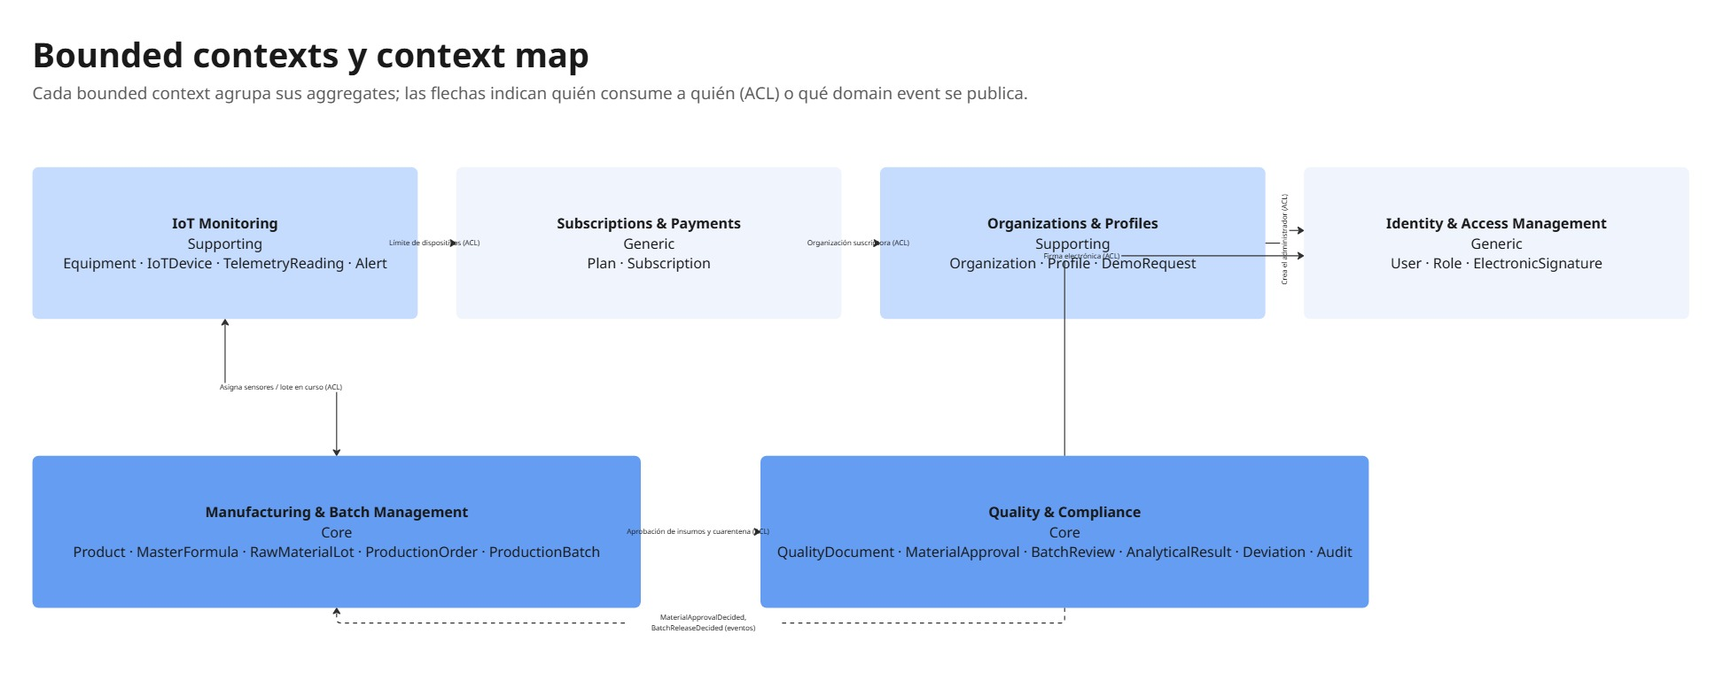
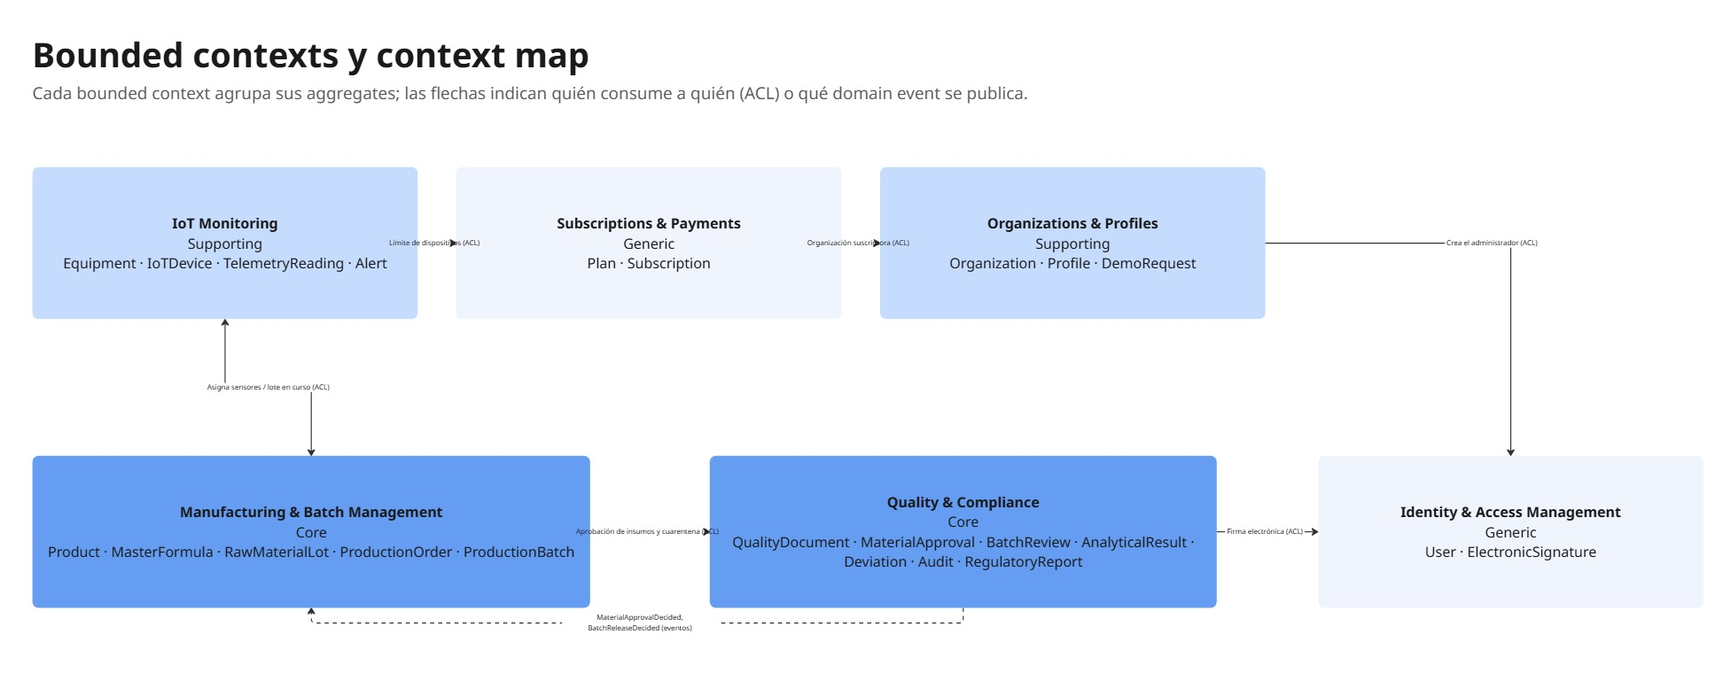
docs(chapter4): refine c4 diagrams, context map and design descriptions

diff --git a/docs/chapter4.md b/docs/chapter4.md
@@ -1,6 +1,6 @@
 # Capítulo IV: Product Design
 
-En este capítulo se detallan las decisiones de diseño del producto para su plataforma DoofPlus, junto con la Landing Page. Se establecen guías de estilo visuales, arquitectura de la información (AI) y criterios que aseguran que la experiencia de usuario (UX) sea intuitiva y profesional, donde alineamos a las exigencias en las máquinas de la industria farmacéutica y entidades regulatorias para la calidad de los fármacos como la DIGEMID.
+En este capítulo se presenta el diseño de DoofPlus a partir de las User Stories y el Impact Map del capítulo III: las guías de estilo, la arquitectura de información, el diseño de la Landing Page y de la Web Application, la arquitectura de software orientada al dominio, el diseño orientado a objetos y el diseño de la base de datos. Las decisiones responden a las exigencias de los laboratorios farmacéuticos y de la DIGEMID sobre la calidad, la trazabilidad y la integridad de los registros.
 
 ## 4.1. Style Guidelines
 
@@ -11,7 +11,7 @@ En esta sección se establecen las bases visuales y de comunicación para DoofPl
 Para asegurar una interfaz coherente y alineada con los estándares que exige la industria farmacéutica, el sistema de diseño de DoofPlus toma como base **Material Design**, el lenguaje de diseño indicado para el proyecto. En la Web Application se implementa con **Angular CLI** usando un tema basado en **Material Design**, y en la Landing Page con ***HTML5*** y ***CSS3*** respetando los mismos tokens de color, tipografía y espaciado.
 
 #### Branding:
-El logotico escogido para DoofPlus comunica de forma directa y sintética la propuesta de valor del sistema: la integración de la automatización industrial con la rigurosidad del control farmacéutico. Para la sección de Branding, el análisis de los componentes de dicho logotipo se desglosa de la siguiente manera:
+El logotipo escogido para DoofPlus comunica de forma directa y sintética la propuesta de valor del sistema: la integración de la automatización industrial con la rigurosidad del control farmacéutico. Para la sección de Branding, el análisis de los componentes de dicho logotipo se desglosa de la siguiente manera:
 
 <p align="center">
   <img src="../assets/img/chapter4/doofplus-logo.png" alt="DoofPlus Logo" width="350px" />
@@ -50,7 +50,7 @@ La paleta de colores de DoofPlus está diseñada para evocar pulcritud clínica,
 | --error-color | #F44336 | Funcional | Errores, rechazos y desviaciones críticas |
 | --warning-color | #FFC107 | Funcional | Advertencias y alertas |
 
-  ![paleta-colores](../assets/img/chapter4/color-palette.png)
+![paleta-colores](../assets/img/chapter4/color-palette.png)
 
 #### Spacing
 
@@ -95,6 +95,7 @@ Las directrices de estilo web de DoofPlus explican e ilustran las decisiones sob
 - Organización: el proyecto de la Web Application en Angular se organiza por bounded context dentro de `src/app`: `iam`, `organizations`, `subscriptions`, `manufacturing`, `iot-monitoring` y `quality`, cada uno con las capas `domain`, `application`, `infrastructure` y `presentation`. Los elementos comunes (layout, toolbar, footer, selector de idioma y cliente REST base) se ubican en `src/app/shared`; los estilos globales y los design tokens de color, tipografía y espaciado, en `src/styles.css`; las imágenes e íconos, en `public/images`, y las traducciones, en `public/i18n` (`en.json`, idioma por defecto, y `es.json`). La Landing Page aplica los mismos tokens en su hoja de estilos.
 - Versionado: Se utiliza Git gestionado desde GitHub como sistema de control de versiones central. El equipo aplica GitFlow y Conventional Commits para gestionar los cambios en el código, lo que ayuda a garantizar que el entorno de desarrollo mantenga una integración continua y una versión estable del producto en todo momento. Además, se aplica Semantic Versioning para darle un orden a las versiones.
 
+
 ## 4.2. Information Architecture
 
 La arquitectura de la información de DoofPlus establece las decisiones que dirigen la organización del contenido en las experiencias web, lo que está orientado a que tanto los visitantes del sector comercial como los usuarios operativos, que forman parte de los segmentos objetivos, se adapten con facilidad a la funcionalidad del producto y puedan encontrar lo que necesitan sin esfuerzo.
@@ -127,7 +128,7 @@ Valores para la Landing Page (sitio estático indexable):
 | --- | --- | --- | --- | --- |
 | Landing Page (index.html) | DoofPlus \| Pharmaceutical Quality & Batch Traceability Platform | SaaS platform that centralizes quality documentation, batch traceability, deviations and IoT data for pharmaceutical laboratories (GMP/DIGEMID). | pharmaceutical quality management, batch traceability, GMP, DIGEMID, CAPA, audit trail, IoT | IngesCompany |
 
-Valores para las vistas principales de la Web Application. Al ser una SPA, el título y la descripción se actualizan en cada cambio de ruta (meta de Vue Router); keywords y author se definen una vez en index.html con los mismos valores de la Landing Page:
+Valores para las vistas principales de la Web Application. Al ser una SPA, el título se actualiza en cada cambio de ruta con la propiedad `title` de las rutas de Angular Router y la descripción con el servicio `Meta` de Angular; keywords y author se definen una vez en `index.html` con los mismos valores de la Landing Page:
 
 | **Vista de la Web Application** | **Title** | **Meta description** |
 | --- | --- | --- |
@@ -143,7 +144,7 @@ Para que los usuarios no se pierdan en el volumen de información generado por l
 
 - **Búsqueda global:** barra en el encabezado para consultar por identificador exacto (número de lote, código de documento o de sensor).
 - **Filtros combinados:** por estado del lote (In Progress, Quarantine, Released, Rejected), rango de fechas de fabricación, severidad de la desviación (Minor, Major, Critical) y tipo de documento.
-- **Presentación de resultados:** tabla de datos (PrimeVue DataTable) paginada y ordenable que resalta la coincidencia y muestra el estado actual de cada registro; si no hay resultados se muestra un mensaje con sugerencias.
+- **Presentación de resultados:** tabla de datos de Angular Material (`mat-table` con `MatPaginator` y `MatSort`) paginada y ordenable que resalta la coincidencia y muestra el estado actual de cada registro; si no hay resultados se muestra un mensaje con sugerencias.
 
 ### 4.2.5. Navigation Systems
 
@@ -155,7 +156,7 @@ Las acciones y técnicas que guían a los usuarios son:
 
 2. ***Web Application:***
 - **Navegación global:** barra lateral (sidebar) con los módulos del entorno (Dashboard, Batches, Documents, Deviations & CAPA, Monitoring, Reports).
-- **avegación contextual:** breadcrumbs para ubicar al usuario dentro de un expediente y regresar a vistas generales.
+- **Navegación contextual:** breadcrumbs para ubicar al usuario dentro de un expediente y regresar a vistas generales.
 
 3. **Navegación por teclado y accesibilidad:** orden de tabulación lógico, foco visible y atributos ARIA en menús y diálogos.
 
@@ -165,11 +166,11 @@ La propuesta de UI de la Landing Page traduce las decisiones anteriores: la jera
 
 ### 4.3.1. Landing Page Wireframe
 
-El wireframe de nuestra página de inicio sirve como un mapa visual que define la estructura y el flujo de la información, alineado con los principios de rigurosidad y claridad que exige el sector farmacéutico. Este esquema asegura una disposición lógica de los componentes, facilitando la navegación y destacando la propuesta de valor de **DoofPlus.** Las secciones del wireframe están diseñadas para contar una historia completa y persuasiva:
+Se presentan los wireframes de la Landing Page para Desktop Web Browser; en Mobile Web Browser las mismas secciones se apilan en una sola columna y la navegación se agrupa en un menú hamburguesa, según el Web Style Guide de la sección 4.1.2. El wireframe sirve como un mapa visual que define la estructura y el flujo de la información, alineado con los principios de rigurosidad y claridad que exige el sector farmacéutico. Este esquema asegura una disposición lógica de los componentes, facilitando la navegación y destacando la propuesta de valor de **DoofPlus.** Las secciones del wireframe están diseñadas para contar una historia completa y persuasiva:
 
 **Nav y Hero:**
 
-Esta sección inicial incluye el logotipo de DoofPlus junto con una presentación breve que introduce al visitante en la propuesta de valor de la plataforma: 'The Future of Pharmaceutical Quality Management' (El futuro de la gestión de calidad farmacéutica). La barra de navegación permite un acceso rápido a secciones clave como Features, Benefits y About Us, mientras que el área principal ofrece una visión concisa del producto, acompañada de un claro llamado a la acción: 'Request a Demo' (Solicitar Demo). Un elemento visual atractivo refuerza el mensaje de innovación tecnológica, precisión y cumplimiento regulatorio que distingue a DoofPlus.
+Esta sección inicial incluye el logotipo de DoofPlus junto con una presentación breve que introduce al visitante en la propuesta de valor de la plataforma: 'The Future of Pharmaceutical Quality Management' (El futuro de la gestión de calidad farmacéutica). La barra de navegación permite un acceso rápido a secciones clave como Features, Benefits y About Us, mientras que el área principal ofrece una visión concisa del producto, acompañada de un llamado a la acción principal que dirige al visitante a la Web Application. Un elemento visual atractivo refuerza el mensaje de innovación tecnológica, precisión y cumplimiento regulatorio que distingue a DoofPlus.
 
 ![Hero Section Wireframe](../assets/img/chapter4/landing-page/wireframes/hero-section-landing-wireframe.png)
 
@@ -207,53 +208,53 @@ Este wireframe sienta las bases para un diseño visual que no solo se ve bien, s
 
 ### 4.3.2. Landing Page Mock-up
 
-Esta sección presenta y explica los Mock-ups del Landing Page, tanto en su versión para Desktop Web Browser como Mobile Web Browser. En la propuesta y la explicación se evidencia la aplicación de los principios, elementos de diseño, diseño inclusivo y arquitectura de información, así como el Design System establecido para los productos digitales.
+Esta sección presenta y explica los Mock-ups de la Landing Page para Desktop Web Browser; en Mobile Web Browser se aplican las reglas de adaptación de la sección 4.1.2. Los mock-ups muestran la versión en español latinoamericano (es-419): el selector "En / Es" del footer cambia todos los textos al inglés (en-US), idioma por defecto. En ellos se aplica el Design System de la sección 4.1 (tipografía Inter, verde marino #0D9488 para las llamadas a la acción y azul pizarra para los encabezados y el footer), la jerarquía visual y las etiquetas de la arquitectura de información, y criterios de diseño inclusivo: contraste alto entre texto y fondo, botones con texto explícito y tamaños de toque amplios.
 
 **Hero de la aplicación**
 
-El hero de nuestra plataforma **DoofPlus** presenta un fondo moderno e institucional que evoca precisión tecnológica y cumplimiento normativo, con un título claro: 'The Future of Pharmaceutical Quality Management'. Una breve descripción capta nuestra esencia para el control de calidad, y un botón de llamado a la acción sólido y centrado ('Request a Demo') invita a los usuarios a dar el primer paso hacia la digitalización de sus procesos. Una barra de navegación en la parte superior con el logotipo de DoofPlus permite acceder de forma fluida a todas las secciones de la página, proporcionando una experiencia de usuario intuitiva.
+El hero presenta un fondo verde marino con el título "El Futuro de la Gestión de Calidad Farmacéutica" (The Future of Pharmaceutical Quality Management), una descripción breve y el botón "Empieza Ahora" (Get Started), que lleva al visitante a la Web Application. La barra de navegación fija muestra el logotipo de DoofPlus, los enlaces a cada sección y el botón "Comenzar", de modo que el acceso a la plataforma está disponible desde cualquier punto de la página.
 
 ![Hero Section Mockup](../assets/img/chapter4/landing-page/mockups/hero-section-landing-mockup.png)
 
 **What We Offer**
 
-En la sección 'What we offer', presentamos nuestras principales áreas de servicio a través de tarjetas limpias. Cada tarjeta cuenta con un título y una descripción enfocada, como 'Real-Time IoT Monitoring', 'Automated BPM Compliance', 'Immutable Traceability' y 'Digital Batch Management'. Esto permite a los usuarios entender rápidamente el alcance de nuestra plataforma para resolver los problemas de documentación de calidad farmacéutica.
+En la sección "Lo que ofrecemos" (What We Offer) se presentan las principales áreas de servicio en tarjetas con título y descripción: "Monitoreo IoT en Tiempo Real" (Real-Time IoT Monitoring), "Cumplimiento BPM Automatizado" (Automated BPM Compliance), "Trazabilidad Inmutable" (Immutable Traceability) y "Gestión Digital de Lotes" (Digital Batch Management). Esto permite a los usuarios entender rápidamente el alcance de nuestra plataforma para resolver los problemas de documentación de calidad farmacéutica.
 
 ![What We Offer Mockup](../assets/img/chapter4/landing-page/mockups/whatweoffer-section-landing-mockup.png)
 
 **Features**
 
-La sección de "Features" muestra las funcionalidades clave de DoofPlus. El diseño tipo acordeón interactivo permite a los usuarios expandir cada característica (como la integración de sensores IoT o alertas instantáneas por desviación) para leer su descripción completa, mientras que el recuadro visual de la izquierda balancea el contenido. Este formato combina información técnica detallada con un diseño dinámico.
+La sección "Características" (Features) muestra las funcionalidades clave de DoofPlus en un acordeón: "Integración de Telemetría IoT", "Motor de Compliance BPM", "Alertas Instantáneas por Desviación" y "Panel de Analítica y KPIs". Cada elemento se expande para mostrar su descripción, mientras que el recuadro visual de la izquierda equilibra el contenido.
 
 ![Features Mockup](../assets/img/chapter4/landing-page/mockups/features-section-landing-mockup.png)
 
 **Benefits**
 
-En 'Benefits', destacamos las ventajas tangibles de utilizar DoofPlus. A través de un diseño de tarjetas (cards) sobre fondo claro con íconos representativos, comunicamos de manera directa cómo nuestra plataforma reduce el tiempo de preparación para auditorías en un 80%, elimina el error humano en los registros y proporciona una infraestructura SaaS escalable.
+En "Beneficios" (Benefits) cuatro tarjetas comunican las ventajas de DoofPlus: 80% menos tiempo en la preparación de auditorías, cero error humano en los registros gracias a la captura automática de variables, detección instantánea de desviaciones y una infraestructura SaaS escalable sin costos de servidores.
 
 ![Benefits Mockup](../assets/img/chapter4/landing-page/mockups/benefits-section-landing-mockup.png)
 
 **About Us**
 
-La sección 'About Us' presenta a **Inges Company**, la startup detrás de DoofPlus. Aquí compartimos nuestra visión de transformar digitalmente procesos especializados, detallando cómo nuestra solución permite centralizar información para el ciclo de vida farmacéutico y asegurar las BPM. El diseño separa claramente la misión de la empresa de una lista puntual con los pilares del servicio (IoT, Trazabilidad, Cumplimiento).
+La sección "Nosotros" (About Us) presenta a IngesCompany, la startup detrás de DoofPlus, con el título "DoofPlus: Transformando la Gestión de Calidad Farmacéutica con IoT y Cumplimiento Normativo". El texto describe cómo la plataforma centraliza la información de los procesos de fabricación y apoya el cumplimiento de las BPM, acompañado de un recuadro visual a la derecha.
 
 ![About Us Mockup](../assets/img/chapter4/landing-page/mockups/aboutus-section-landing-mockup.png)
 
 **Our Team**
 
-La sección "Our Team" presenta a los ingenieros de software detrás de Inges Company: Marcelo Angulo, Yhoshua Cobades, Ricardo Flores, Nestor Rojas y Rodolfo Zavaleta. Las tarjetas de perfil muestran una foto, el nombre, el rol de Software Engineer y una biografía detallada para cada miembro. El diseño de tarjetas alineadas en cuadrícula brinda un aspecto organizado, humanizando el desarrollo del software.
+La sección "Nuestro Equipo" (Our Team) presenta a los integrantes de IngesCompany: Marcelo Angulo, Yhoshua Cobades, Ricardo Flores, Nestor Rojas y Rodolfo Zavaleta. Cada tarjeta reserva el espacio de la foto y muestra el nombre y el rol de Ingeniero de Software, en una cuadrícula de tres y dos columnas que mantiene el orden visual.
 
 ![Our Team Mockup](../assets/img/chapter4/landing-page/mockups/ourteam-section-landing-mockup.png)
 
 **Plans**
 
-En la sección de "Plans", ofrecemos los detalles de nuestros planes de suscripción. Las tarjetas de "Standard Lab" y "Enterprise" incluyen descripciones precisas para los segmentos objetivos, precios mensuales/anuales, y listas completas de características. El Plan Enterprise destaca visualmente con el color Verde Marino principal como fondo sólido para distinguirlo, y se incorpora un toggle para facilitar la vista de precios anuales.
+En la sección "Planes" (Plans) se comparan el Plan Estándar (Standard Lab, US$199 al mes, hasta 5 dispositivos IoT y 10 cuentas de usuario) y el Plan Enterprise (US$599 al mes, conexiones IoT ilimitadas y gestión multi-sede), cada uno con su descripción, su lista de características y el botón "Obtener plan". El Plan Enterprise destaca con el verde marino como fondo sólido, y el selector "Mensual / Anual" muestra los precios de cada modalidad.
 
 ![Plans Mockup](../assets/img/chapter4/landing-page/mockups/plans-section-landing-mockup.png)
 
 **Footer**
 
-El "Footer" de nuestra landing page actúa como cierre funcional de la navegación. Contiene el logotipo en su versión blanca y el nombre de DoofPlus, enlaces de contacto y acceso a recursos. Finalmente, se observa la declaración oficial "Copyright © 2026 Inges Company", asegurando la propiedad del producto en una interfaz ordenada con los colores oscuros corporativos.
+El cierre de la página reúne tres testimonios de clientes ("Lo que opinan nuestros clientes"), un llamado a la acción final ("¿Listo para digitalizar la gestión de calidad de tu laboratorio?" con el botón "Comenzar") y el footer en azul pizarra. El footer contiene el logotipo en su versión blanca, los enlaces de producto (Características, Planes de Precio y Cómo funciona), los datos de contacto (correo, teléfono y ubicación), la declaración "Copyright © 2026 Inges Company" y el selector de idioma "En / Es".
 
 ![Footer Mockup](../assets/img/chapter4/landing-page/mockups/footer-section-landing-mockup.png)
 
@@ -267,7 +268,7 @@ El diseño considera principios de usabilidad, accesibilidad, consistencia visua
 
 En esta sección se presentan los wireframes diseñados para la aplicación web de DoofPlus. Cada pantalla fue desarrollada para gestionar procesos de calidad farmacéutica, producción regulada GxP, trazabilidad de lotes, control documental y cumplimiento normativo mediante firmas electrónicas y registros auditables.
 
-A continuación, se muestran las representaciones esquemáticas de baja fidelidad que describen la estructura, distribución de componentes y funcionalidades principales de cada módulo de la plataforma.
+A continuación, se muestran las representaciones esquemáticas de baja fidelidad que describen la estructura, distribución de componentes y funcionalidades principales de cada módulo de la plataforma. Todas las pantallas comparten la misma estructura, derivada de la arquitectura de información de la sección 4.2: una barra superior con el entorno activo (Quality Segment o GxP Production), el usuario y el selector de idioma; un sidebar con los módulos del entorno (navegación global); y un área de contenido que ubica arriba los indicadores y abajo las tablas de detalle (jerarquía visual). Las acciones críticas, como aprobar, liberar o rechazar, se agrupan al final de cada formulario y se confirman con firma electrónica.
 
 - **Landing Page - DoofPlus**
 
@@ -277,7 +278,7 @@ Pantalla de presentación de la plataforma que comunica la propuesta de valor de
 
 - **Regulatory Identification - DoofPlus**
 
-Pantalla de autenticación regulatoria que solicita las credenciales corporativas y la firma electrónica necesarias para acceder a funcionalidades sujetas a cumplimiento FDA 21 CFR Part 11 y normativas GxP.
+Pantalla de inicio de sesión que solicita el correo corporativo y la contraseña del usuario, la misma con la que confirma sus firmas electrónicas, y advierte que se trata de un sistema regulado en el que todo intento de acceso no autorizado queda registrado. Tras validar las credenciales se solicita el código 2FA (US06).
 
 ![Wireframe](../assets/img/chapter4/prototype/wireframes/Login.png)
 
@@ -358,6 +359,12 @@ Panel principal del entorno de producción que permite supervisar órdenes activ
 Interfaz para la gestión operativa de lotes de fabricación, incluyendo seguimiento de etapas de producción, firmas electrónicas y responsables asignados.
 
 ![Wireframe](../assets/img/chapter4/prototype/wireframes/Gestión%20de%20Lotes.png)
+
+- **Environmental & Equipment Monitoring - DoofPlus**
+
+Consola de monitoreo ambiental del entorno de producción ("Environmental Monitoring Console & Equipment") que muestra, por línea, la presión diferencial, la humedad relativa y la clase de partículas frente a sus rangos de referencia, resalta los valores fuera de rango y lista el estado de calibración de los equipos.
+
+![Wireframe](../assets/img/chapter4/prototype/wireframes/Monitoreo.png)
 
 - **GxP Incident Registration & Deviation Management - DoofPlus**
 
@@ -487,7 +494,7 @@ Flujo: GxP Production Control Console → GxP Regulatory Reports & Metrics.
 
 En esta sección se presentan los mock-ups desarrollados para la aplicación web de DoofPlus. Estas representaciones de alta fidelidad muestran la apariencia final de la plataforma, incorporando la identidad visual del producto, componentes interactivos y elementos orientados al cumplimiento regulatorio farmacéutico bajo estándares GMP y FDA 21 CFR Part 11.
 
-Los mock-ups fueron diseñados considerando los procesos críticos de aseguramiento y control de calidad, manufactura farmacéutica, trazabilidad de lotes y gestión documental, garantizando una experiencia de usuario intuitiva y alineada con los requisitos de integridad de datos, auditoría y firmas electrónicas.
+Los mock-ups fueron diseñados considerando los procesos críticos de aseguramiento y control de calidad, manufactura farmacéutica, trazabilidad de lotes y gestión documental, garantizando una experiencia de usuario intuitiva y alineada con los requisitos de integridad de datos, auditoría y firmas electrónicas. Aplican el Design System de la sección 4.1: tipografía Inter, azul pizarra en la barra superior y el sidebar, y colores funcionales para los estados (verde para conforme, ámbar para advertencia y rojo para fuera de especificación). Como criterio de diseño inclusivo, cada estado se comunica con una etiqueta de texto además del color (por ejemplo, "Calibrated OK" o "Low Pressure"), las tablas mantienen encabezados explícitos y el selector "EN / ES" permanece visible en todas las pantallas.
 
 - **Landing Page - DoofPlus**
 
@@ -497,7 +504,7 @@ Pantalla de presentación de la plataforma que comunica la propuesta de valor de
 
 - **Regulatory Identification - DoofPlus**
 
-Pantalla de autenticación regulatoria que solicita las credenciales corporativas y la firma electrónica necesarias para acceder a funcionalidades sujetas a cumplimiento FDA 21 CFR Part 11 y normativas GxP.
+Pantalla de inicio de sesión que solicita el correo corporativo y la contraseña del usuario, la misma con la que confirma sus firmas electrónicas, y advierte que se trata de un sistema regulado en el que todo intento de acceso no autorizado queda registrado. Tras validar las credenciales se solicita el código 2FA (US06).
 
 ![Mockup](../assets/img/chapter4/prototype/mockup/Login.png)
 
@@ -578,6 +585,12 @@ Panel principal del entorno de producción que permite supervisar órdenes activ
 Interfaz para la gestión operativa de lotes de fabricación, incluyendo seguimiento de etapas de producción, firmas electrónicas y responsables asignados.
 
 ![Mockup](../assets/img/chapter4/prototype/mockup/Gestión%20de%20Lotes.png)
+
+- **Environmental & Equipment Monitoring - DoofPlus**
+
+Consola de monitoreo ambiental del entorno de producción ("Environmental Monitoring Console & Equipment") que muestra, por línea, la presión diferencial, la humedad relativa y la clase de partículas frente a sus rangos de referencia, resalta los valores fuera de rango y lista el estado de calibración de los equipos.
+
+![Mockup](../assets/img/chapter4/prototype/mockup/Monitoreo.png)
 
 - **GxP Incident Registration & Deviation Management - DoofPlus**
 
@@ -706,11 +719,11 @@ La sección de Web Applications Prototyping presenta los prototipos interactivos
 
 El diseño de los prototipos fue guiado por cuatro principios fundamentales:
 
-- Cumplimiento regulatorio por diseño
+**Cumplimiento regulatorio por diseño**
 
 Todas las interacciones fueron concebidas considerando requisitos de FDA 21 CFR Part 11, GMP y buenas prácticas de documentación, incorporando controles asociados a firmas electrónicas, auditoría de registros y segregación de funciones.
 
-- Arquitectura basada en procesos farmacéuticos
+**Arquitectura basada en procesos farmacéuticos**
 
 La navegación se organiza alrededor de los procesos más frecuentes dentro de la industria farmacéutica:
 
@@ -720,11 +733,12 @@ La navegación se organiza alrededor de los procesos más frecuentes dentro de l
 - Gestión CAPA.
 - Auditorías regulatorias.
 - Validación y control analítico.
-- Consistencia visual y operativa
+
+**Consistencia visual y operativa**
 
 Los prototipos mantienen una identidad visual uniforme mediante el uso consistente de colores institucionales, componentes reutilizables, tablas regulatorias y paneles de control orientados a la supervisión operativa.
 
-- Optimización para entornos de trabajo regulados
+**Optimización para entornos de trabajo regulados**
 
 La interfaz prioriza:
 
@@ -740,17 +754,17 @@ Los prototipos de Desktop y Mobile Web Browser siguen los paths de los User Flow
 
 Prototipo navegable en Figma: <mark>pegar URL pública del prototipo</mark>
 
-Video de navegación del prototipo (Microsoft Stream), upc-pre-202620-1asi0730-7742-IngesCompany-prototype-navigation-sprint-1: <mark>pegar URL, timing de inicio y duración</mark>
+Video de navegación del prototipo (Microsoft Stream), upc-pre-202620-1asi0729-7742-IngesCompany-prototype-navigation: <mark>pegar URL, timing de inicio y duración</mark>
 
 ## 4.6. Domain-Driven Software Architecture
-La arquitectura de DoofPlus se fundamenta en Domain-Driven Design (DDD). El punto de partida es el Big Picture EventStorming (sección 2.4), que dejó una línea de tiempo de eventos organizada en siete swimlanes, con sus actores, sistemas externos y problemas. En esta sección ese conocimiento se profundiza con un Design-Level EventStorming hasta identificar los bounded contexts y obtener aggregates, commands, policies, read models y sistemas externos por contexto; luego la solución se representa con el modelo C4 (contexto, contenedores y componentes). Los mismos bounded contexts y aggregates se mantienen en los diagramas de clases (sección 4.7), en la base de datos (sección 4.8), en los módulos de la Web Application en Angular y en los paquetes del RESTful API en Spring Boot.
+La arquitectura de DoofPlus se fundamenta en Domain-Driven Design (DDD). El punto de partida es el Big Picture EventStorming (sección 2.4), que dejó una línea de tiempo de eventos organizada en siete swimlanes, con sus actores, sistemas externos y problemas. En esta sección ese conocimiento se profundiza con un Design-Level EventStorming hasta identificar los bounded contexts y obtener aggregates, commands, policies, read models y sistemas externos por contexto; luego la solución se representa con el modelo C4 (contexto, contenedores y componentes). Cada bounded context se corresponde con un módulo de la Web Application en Angular y con un paquete del RESTful API en Spring Boot.
 
 La siguiente tabla resume la trazabilidad entre artefactos:
 
-| Bounded context | Tipo | Swimlanes del Big Picture | Épicas | Aggregates (DLES y clases) | Módulo Angular / paquete Spring |
+| Bounded context | Tipo | Swimlanes del Big Picture | Épicas | Aggregates (DLES) | Módulo Angular / paquete Spring |
 | --- | --- | --- | --- | --- | --- |
 | Manufacturing & Batch Management | Core | Producción y almacén | EP04, EP09 (productos y fórmulas) | Product, MasterFormula, RawMaterialLot, ProductionOrder, ProductionBatch | `manufacturing` |
-| Quality & Compliance | Core | Gestión documental, Control de calidad y liberación, Desviaciones y CAPA, Auditoría y cumplimiento | EP03, EP05, EP07, EP08, EP10 | QualityDocument, MaterialApproval, BatchReview, AnalyticalResult, Deviation, Audit, AuditTrailEntry, RegulatoryReport | `quality` |
+| Quality & Compliance | Core | Gestión documental, Control de calidad y liberación, Desviaciones y CAPA, Auditoría y cumplimiento | EP03, EP05, EP07, EP08, EP10 | QualityDocument, MaterialApproval, BatchReview, AnalyticalResult, Deviation, Audit, RegulatoryReport | `quality` |
 | IoT Monitoring | Supporting | Monitoreo de equipos (IoT) | EP06, EP09 (equipos, calibraciones y mantenimiento) | Equipment, IoTDevice, TelemetryReading, Alert | `iot-monitoring` / `iotmonitoring` |
 | Identity & Access Management | Generic | Plataforma y administración, Gestión documental | EP02 | User, ElectronicSignature | `iam` |
 | Organizations & Profiles | Supporting | Plataforma y administración | EP01 (solicitud de demo), EP02 (registro de la organización) | Organization, Profile, DemoRequest | `organizations` |
@@ -888,7 +902,7 @@ Se identificó quién ejecuta cada command: Administrador del laboratorio, Espec
 
 #### Paso 4: Read models
 
-Se registró la información que cada actor consulta antes de decidir. Estos read models son la base de las vistas de la Web Application y de los dashboards: por ejemplo, "Panel de control del lote" (GxP Batch Execution & Management Console), "Tablero de desviaciones y CAPA" (Critical Deviations & CAPA Actions Control), "Panel de resultados de laboratorio" (Analytical Results Entry & Validation), "Panel de alertas" (Environmental & Equipment Monitoring) y "Audit trail" (Cross-Traceability & Audit Center).
+Se registró la información que cada actor consulta antes de decidir. Estos read models son la base de las vistas de la Web Application y de los dashboards: por ejemplo, "Panel de control del lote" (GxP Batch Execution & Management Console), "Tablero de desviaciones y CAPA" (Critical Deviations & CAPA Actions Control), "Panel de resultados de laboratorio" (Analytical Results Entry & Validation), "Panel de alertas" (Environmental & Equipment Monitoring) y "Audit trail" (Cross-Traceability & Audit Center). Cada read model se obtiene con una query del contexto, atendida por su query service: por ejemplo, el panel de control del lote se arma con la consulta del lote y su línea de tiempo, y el tablero de desviaciones, con la consulta de las desviaciones abiertas por severidad.
 
 **Identity & Access Management**
 
@@ -950,7 +964,7 @@ Donde no interviene un sistema externo se escribió la business rule que el comm
 | --- | --- | --- |
 | IAM | User, ElectronicSignature | Una cuenta se bloquea tras 5 intentos fallidos; firmar exige reingresar la contraseña. |
 | Organizations & Profiles | DemoRequest, Organization, Profile | El RUC de la organización es válido y único. |
-| Subscriptions & Payments | Subscription (con su Plan) | La suscripción se activa solo si Niubiz autoriza el cobro. |
+| Subscriptions & Payments | Plan, Subscription | La suscripción se activa solo si Niubiz autoriza el cobro. |
 | Manufacturing & Batch Management | Product, MasterFormula, RawMaterialLot, ProductionOrder, ProductionBatch | Un lote solo consume materia prima aprobada y solo Calidad puede liberarlo. |
 | IoT Monitoring | Equipment, IoTDevice, TelemetryReading, Alert | Un equipo con calibración vencida no puede asignarse a un lote. |
 | Quality & Compliance | QualityDocument, MaterialApproval, BatchReview, AnalyticalResult, Deviation, Audit, RegulatoryReport | Un lote con un resultado OOS sin desviación cerrada no puede liberarse. |
@@ -992,7 +1006,7 @@ Frames en Miro por bounded context. Debajo de los frames finales, el tablero tie
 
 #### Paso 7: Bounded contexts
 
-Los aggregates se agruparon en seis bounded contexts, siguiendo los swimlanes del Big Picture y el lenguaje que comparten sus eventos, con nombres en inglés alineados al Ubiquitous Language y al código. Respecto del Design-Level original del equipo se mantuvieron los seis contextos y se refinaron sus aggregates: "Módulo de Credenciales y Sesión" pasó a User (la sesión se maneja con JWT y no se persiste), la matriz de roles pasó de Organizations a IAM, "Perfil Corporativo y Tenant" se dividió en Organization y Profile, "Inventario y Materia Prima" se separó en Product, MasterFormula y RawMaterialLot, "Lote de Producción" en ProductionOrder y ProductionBatch, "Registro de Maquinaria y Telemetría" en Equipment, IoTDevice, TelemetryReading y Alert, y "Expediente de Trazabilidad y Auditoría" en MaterialApproval, BatchReview, AnalyticalResult, Audit y AuditTrailEntry. Así cada aggregate protege un conjunto pequeño de reglas y se corresponde con una clase raíz y sus tablas.
+Los aggregates se agruparon en seis bounded contexts, siguiendo los swimlanes del Big Picture y el lenguaje que comparten sus eventos, con nombres en inglés alineados al Ubiquitous Language y al código. Respecto del Design-Level original del equipo se mantuvieron los seis contextos y se refinaron sus aggregates: "Módulo de Credenciales y Sesión" pasó a User (la sesión se maneja con JWT y no se persiste), la matriz de roles pasó de Organizations a IAM, "Perfil Corporativo y Tenant" se dividió en Organization y Profile, "Inventario y Materia Prima" se separó en Product, MasterFormula y RawMaterialLot, "Lote de Producción" en ProductionOrder y ProductionBatch, "Registro de Maquinaria y Telemetría" en Equipment, IoTDevice, TelemetryReading y Alert, y "Expediente de Trazabilidad y Auditoría" en MaterialApproval, BatchReview, AnalyticalResult y Audit. Así cada aggregate protege un conjunto pequeño de reglas y se corresponde con una clase raíz y sus tablas.
 
 El context map muestra cómo se integran los contextos. Las consultas entre contextos pasan por un Anti-Corruption Layer (fachada `ContextFacade` del contexto proveedor y servicio `External…Service` del consumidor); las decisiones de Quality hacia Manufacturing se comunican con domain events.
 
@@ -1012,7 +1026,7 @@ Frame en Miro: https://miro.com/app/board/uXjVHkhKOXE=/?moveToWidget=34587646857
 
 ### 4.6.2. Software Architecture Context Diagram
 
-El diagrama de contexto (nivel 1 del modelo C4) muestra a DoofPlus como un único sistema rodeado por sus usuarios y los sistemas externos identificados en el EventStorming. Los usuarios son el visitante de un laboratorio (Landing Page), el Especialista QA/QC y el Jefe de Producción (segmentos objetivo) y el Administrador del laboratorio. Los sistemas externos son ThingsBoard, que envía la telemetría de los sensores; Niubiz, que autoriza los cobros de las suscripciones; y SendGrid, que entrega correos. La app autenticadora del usuario genera los códigos TOTP del segundo factor sin integración por API, por eso se muestra con línea punteada. Los diagramas C4 se elaboraron con Structurizr DSL (Diagram-as-Code) y se renderizaron con Structurizr, la herramienta de referencia del modelo C4; todas las vistas salen de un único modelo (`assets/diagrams/structurizr/workspace.dsl`), y la disposición de los elementos de cada vista se guarda en `workspace.json`, ordenada en capas de arriba hacia abajo para que las relaciones no se crucen ni atraviesen otros elementos.
+El diagrama de contexto (nivel 1 del modelo C4) muestra a DoofPlus como un único sistema rodeado por sus usuarios y los sistemas externos identificados en el EventStorming. Los usuarios son el visitante de un laboratorio (Landing Page), el Especialista QA/QC y el Jefe de Producción (segmentos objetivo) y el Administrador del laboratorio. Los sistemas externos son ThingsBoard, que envía la telemetría de los sensores; Niubiz, que autoriza los cobros de las suscripciones; SendGrid, que entrega correos; y el Lector RFID del almacén, con el que el Jefe de Producción lee la etiqueta del insumo recibido y que envía ese código a DoofPlus. La app autenticadora del usuario genera los códigos TOTP del segundo factor sin integración por API, por eso se muestra con línea punteada. DIGEMID, identificada como sistema externo en el EventStorming, no forma parte del diagrama porque inspecciona al laboratorio sin intercambiar datos con DoofPlus: el modelo C4 solo incluye las personas y los sistemas conectados directamente con el sistema. Los diagramas C4 se elaboraron con Structurizr DSL (Diagram-as-Code) y se renderizaron con Structurizr, la herramienta de referencia del modelo C4; todas las vistas salen de un único modelo (`assets/diagrams/structurizr/workspace.dsl`), y la disposición de los elementos de cada vista se guarda en `workspace.json`, ordenada en capas de arriba hacia abajo para que las relaciones no se crucen ni atraviesen otros elementos.
 
 ![Context Level Diagram](../assets/img/chapter4/software-architecture/c4/c4-01-context.png)
 
@@ -1027,13 +1041,15 @@ El diagrama de contenedores (nivel 2) muestra las unidades de despliegue de la s
 | RESTful API | Spring Boot, Java 21, Spring Data JPA, Spring Security, springdoc-openapi | Render | Monolito modular con los seis bounded contexts; expone endpoints REST documentados con OpenAPI (Swagger), recibe la telemetría de ThingsBoard y publica notificaciones por WebSocket (STOMP). |
 | Database | MySQL 8 | Railway | Persistencia relacional; las tablas se agrupan por bounded context. |
 
+El Lector RFID se conecta al equipo del almacén y envía a la Web Application el código de la etiqueta como entrada de teclado (USB HID), por lo que no requiere integración con el RESTful API.
+
 Se eligió un monolito modular en lugar de microservicios porque el statement define un único RESTful API y porque el equipo y el volumen de datos de laboratorios pequeños y medianos no justifican la complejidad operativa de varios servicios. La separación por bounded context dentro del código (paquetes independientes que solo se comunican mediante fachadas y eventos) permite extraer un contexto a un servicio propio en el futuro.
 
 ![Container Level Diagram](../assets/img/chapter4/software-architecture/c4/c4-02-container.png)
 
 ### 4.6.4. Software Architecture Components Diagrams
 
-Los diagramas de componentes (nivel 3) descomponen la Web Application y el RESTful API. La Web Application sigue la estructura del proyecto en Angular: un módulo por bounded context con las capas `domain`, `application`, `infrastructure` y `presentation`, más los elementos compartidos de `shared`.
+Los diagramas de componentes (nivel 3) descomponen la Web Application y el RESTful API. La Web Application sigue la estructura del proyecto en Angular: un módulo por bounded context con las capas `domain`, `application`, `infrastructure` y `presentation`, más los elementos compartidos de `shared`. El módulo `manufacturing` recibe el código leído por el Lector RFID en el registro de la recepción de insumos.
 
 ![Component Diagram - Web Application](../assets/img/chapter4/software-architecture/c4/c4-03-webapp-components.png)
 
@@ -1095,7 +1111,7 @@ El diseño orientado a objetos traduce los aggregates del Design-Level EventStor
 
 ![Class Diagram - IoT Monitoring](../assets/img/chapter4/diagram-class/class-05-iot.png)
 
-**Quality & Compliance.** `QualityDocument` gestiona versiones y aprobación de SOP y protocolos; `MaterialApproval` registra el dictamen de cada lote de insumo; `BatchReview` controla la cuarentena, evaluación y liberación del lote y emite el `ReleaseCertificate`; `AnalyticalResult` calcula el resultado y detecta los OOS. `Deviation` controla la clasificación, investigación, causa raíz y acciones CAPA hasta su cierre; `Audit` registra hallazgos y observaciones; `AuditTrailEntry` es de solo inserción; `RegulatoryReport` guarda los reportes generados.
+**Quality & Compliance.** `QualityDocument` gestiona versiones y aprobación de SOP y protocolos; `MaterialApproval` registra el dictamen de cada lote de insumo; `BatchReview` controla la cuarentena, evaluación y liberación del lote y emite el `ReleaseCertificate`; `AnalyticalResult` calcula el resultado y detecta los OOS. `Deviation` controla la clasificación, investigación, causa raíz y acciones CAPA hasta su cierre; `Audit` registra hallazgos y observaciones; `AuditTrailEntry`, de solo inserción, persiste el read model "Audit trail" del Design-Level EventStorming; `RegulatoryReport` guarda los reportes generados.
 
 ![Class Diagram - Quality & Compliance](../assets/img/chapter4/diagram-class/class-06-quality.png)
 
